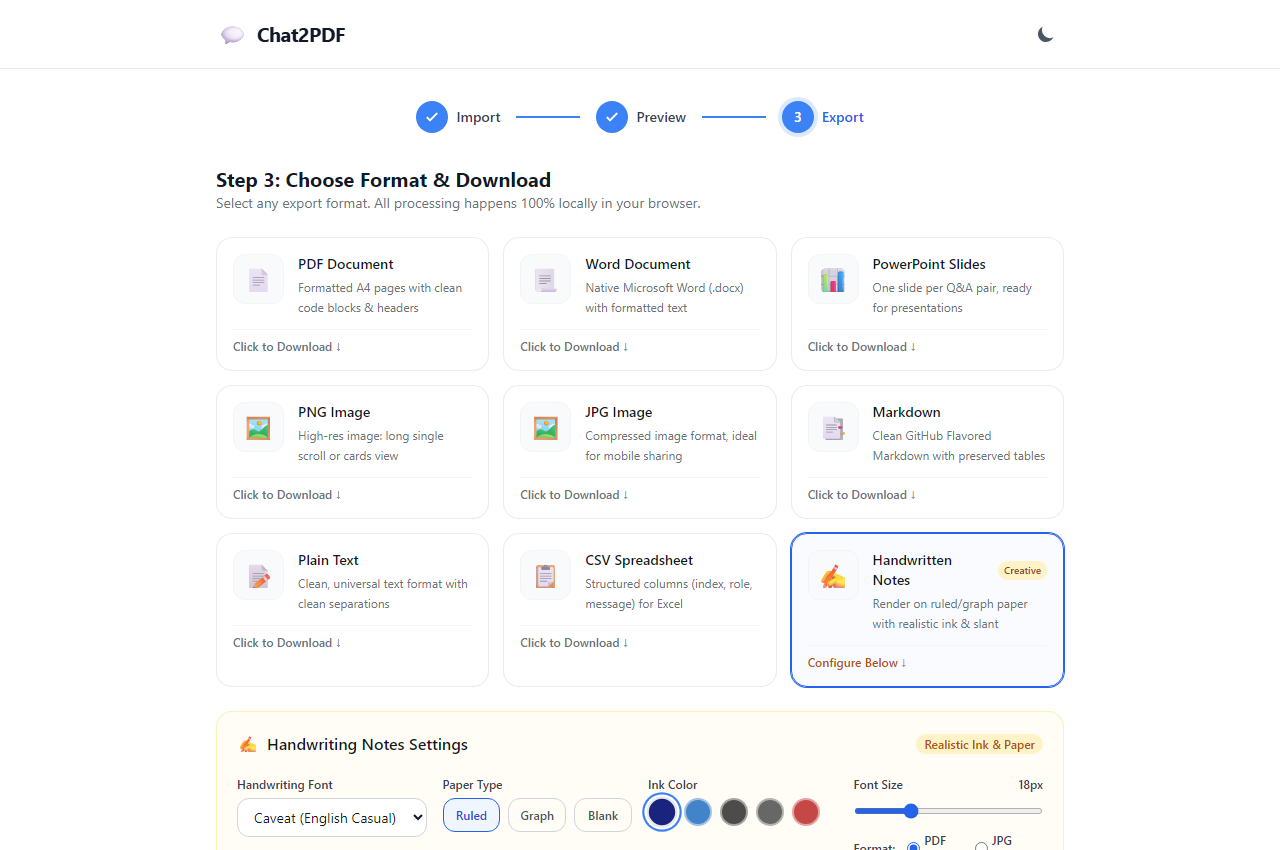
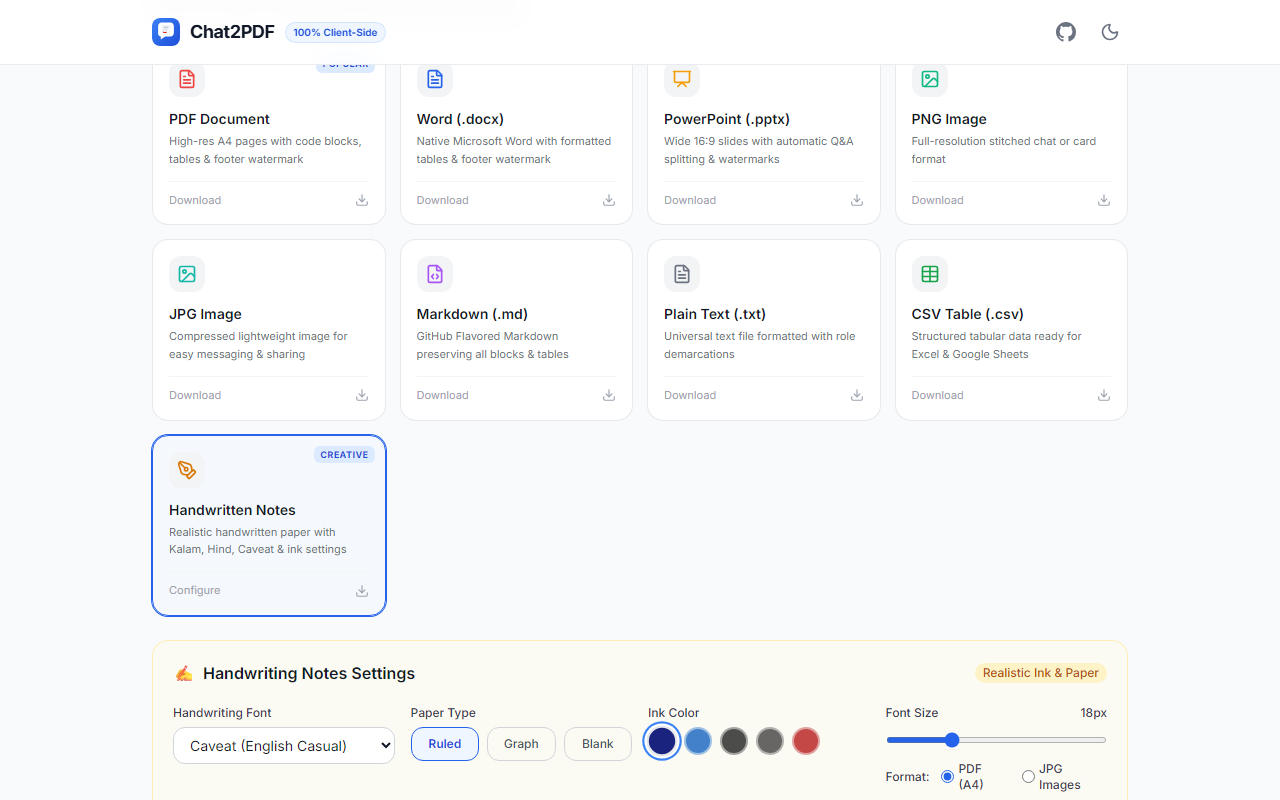
docs: updated screenshots

diff --git a/scripts/capture-screenshots.ts b/scripts/capture-screenshots.ts
@@ -1,0 +1,38 @@
+import { chromium } from 'playwright';
+import path from 'path';
+
+async function captureScreenshots() {
+  const browser = await chromium.launch({ headless: true });
+  const context = await browser.newContext({ viewport: { width: 1280, height: 800 } });
+  const page = await context.newPage();
+
+  await page.goto('http://localhost:5174');
+  await page.waitForLoadState('networkidle');
+
+  // Step 1: Input Step
+  await page.click('text="Load Sample Chat"');
+  await page.screenshot({ path: 'docs/screenshots/01-input-step.png' });
+  console.log('Saved 01-input-step.png');
+
+  // Step 2: Preview Step
+  await page.click('text="Parse & Preview"');
+  await page.waitForSelector('text="Step 2: Preview & Filter"');
+  await page.screenshot({ path: 'docs/screenshots/02-preview-step.png' });
+  console.log('Saved 02-preview-step.png');
+
+  // Step 3: Export Step
+  await page.click('text="Choose Format & Export"');
+  await page.waitForSelector('text="Step 3: Choose Format & Download"');
+  await page.screenshot({ path: 'docs/screenshots/03-export-step.png' });
+  console.log('Saved 03-export-step.png');
+
+  // Step 4: Handwriting Controls
+  await page.locator('text="Handwritten Notes"').first().click();
+  await page.waitForTimeout(500);
+  await page.screenshot({ path: 'docs/screenshots/04-handwriting-controls.png' });
+  console.log('Saved 04-handwriting-controls.png');
+
+  await browser.close();
+}
+
+captureScreenshots().catch(console.error);
